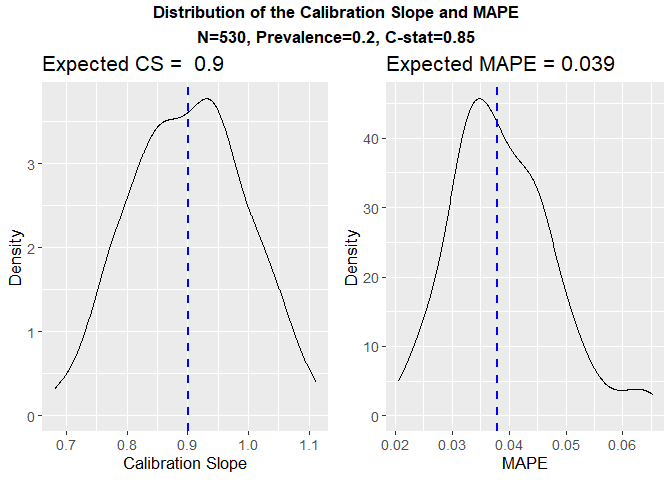
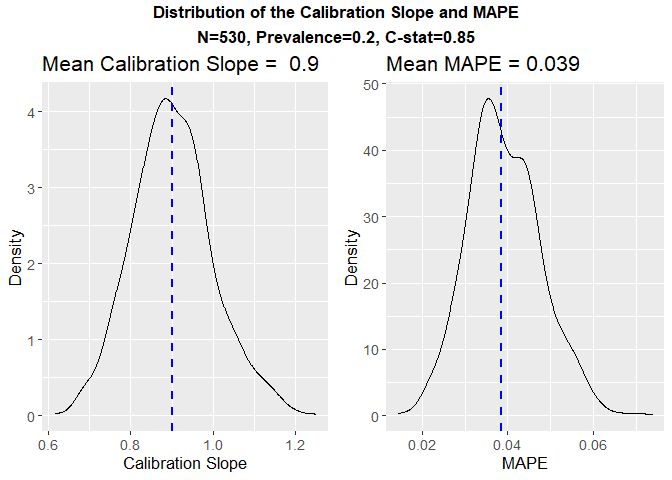
x

diff --git a/README.md b/README.md
@@ -28,29 +28,20 @@ sample size to achieve a taregt expected shrinkage of S=0.9
 ``` r
 library(samplesizedev)
 
-expected_cs(n = 530, p = 0.2, c = 0.85, n.predictors = 10, nsim = 100, parallel = TRUE)
+expected_cs(n = 530, p = 0.2, c = 0.85, n.predictors = 10, nsim = 1000, parallel = TRUE)
 ```
 
 <img src="man/figures/README-example-1.png" width="100%" />
 
-    >     N Expected CS SD(CS) RMSD(CS) Pr(CS<0.8) Expected MAPE SD(MAPE) Prevalence
-    > 1 530         0.9 0.0927   0.1357       0.15         0.038   0.0088        0.2
-    >   C-Statistic  # Predictors
-    > 1        0.85            10
+    N Expected CS SD(CS) RMSD(CS) Pr(CS<0.8) Expected MAPE SD(MAPE) Prevalence C-Statistic  # Predictors
+    530         0.9 0.0979    0.139       0.14        0.0384   0.0086        0.2      0.85            10
+
 
     samplesizedev(outcome="Binary", S = 0.9, p = 0.2, c = 0.85, n.predictors = 10,  nsim = 1000)
-    > [1] "Optimisation Starting ~ 1 min left..."
-    > $riley
-    > [1] 305
-    > 
-    > $actual
-    > [1] 530
-
-You’ll still need to render `README.Rmd` regularly, to keep `README.md`
-up-to-date. `devtools::build_readme()` is handy for this. You could also
-use GitHub Actions to re-render `README.Rmd` every time you push. An
-example workflow can be found here:
-<https://github.com/r-lib/actions/tree/v1/examples>.
-
-In that case, don’t forget to commit and push the resulting figure
-files, so they display on GitHub and CRAN.
+    [1] "Optimisation Starting ~ 1 min left..."
+    
+    $riley
+    [1] 305
+     
+    $actual
+    [1] 530
